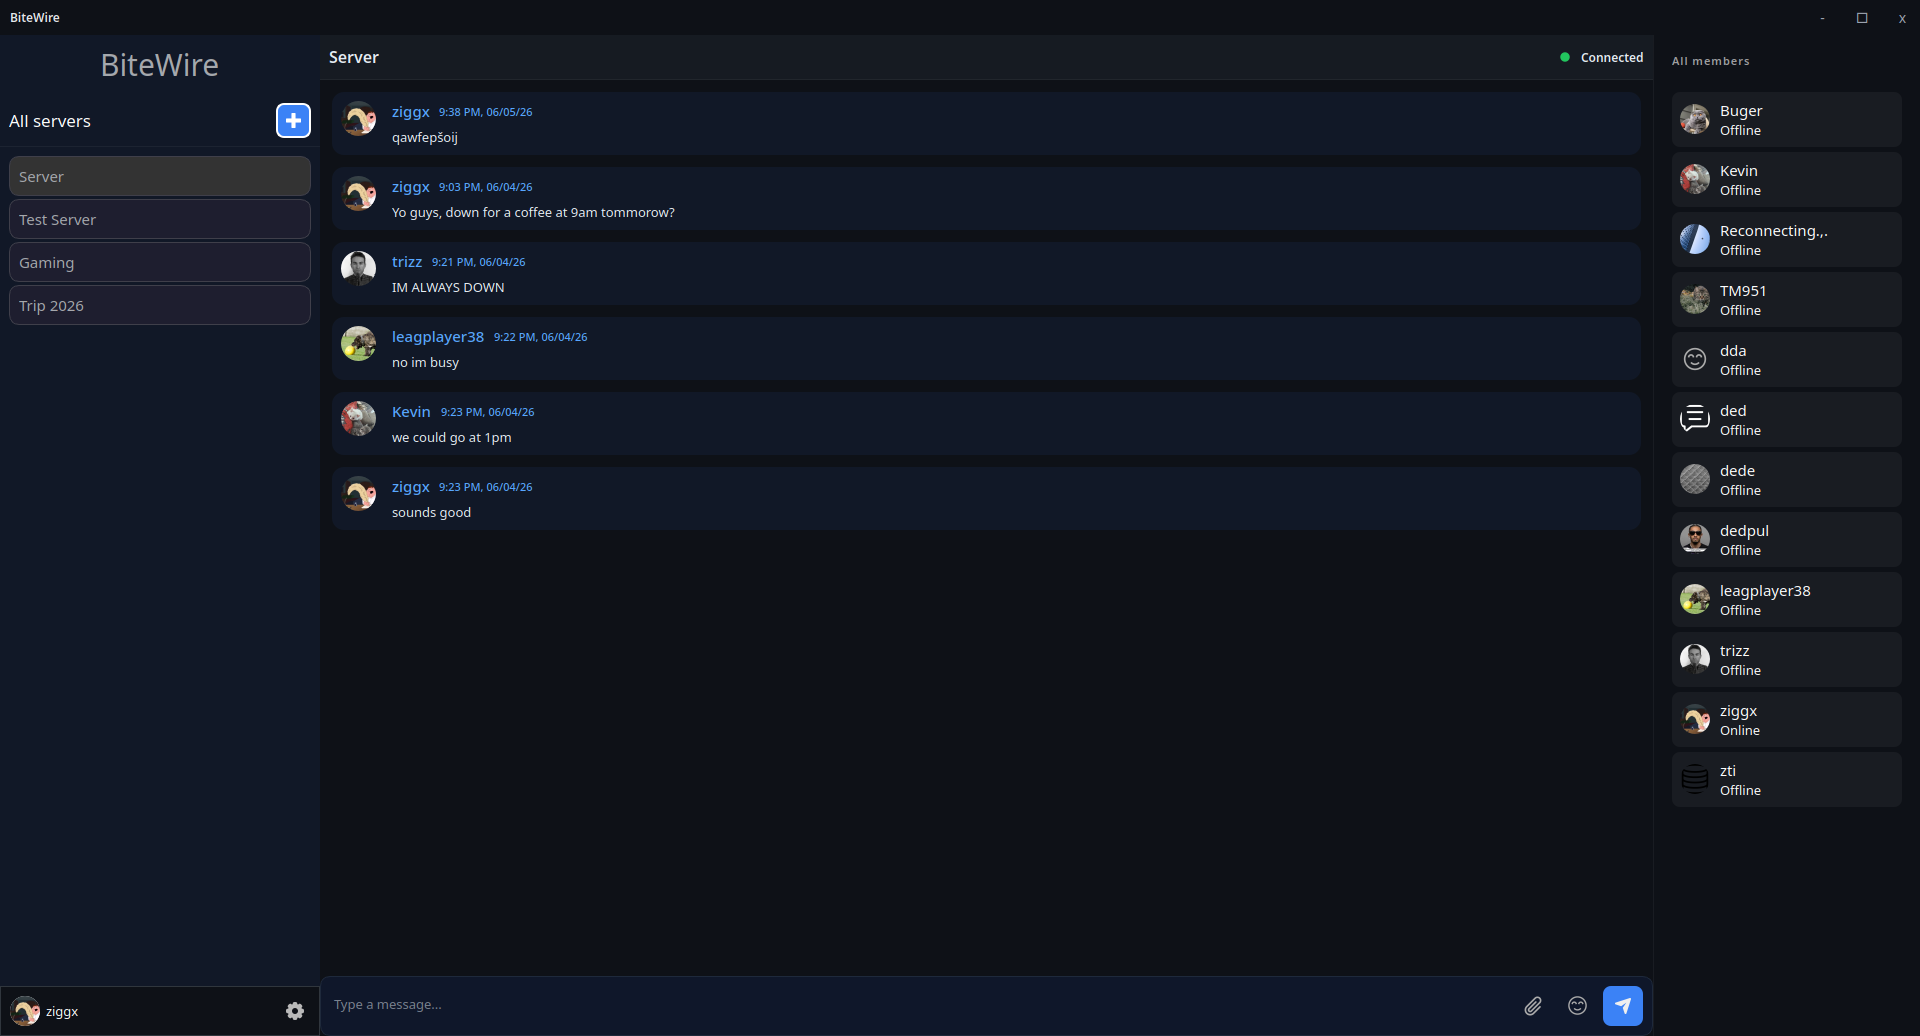
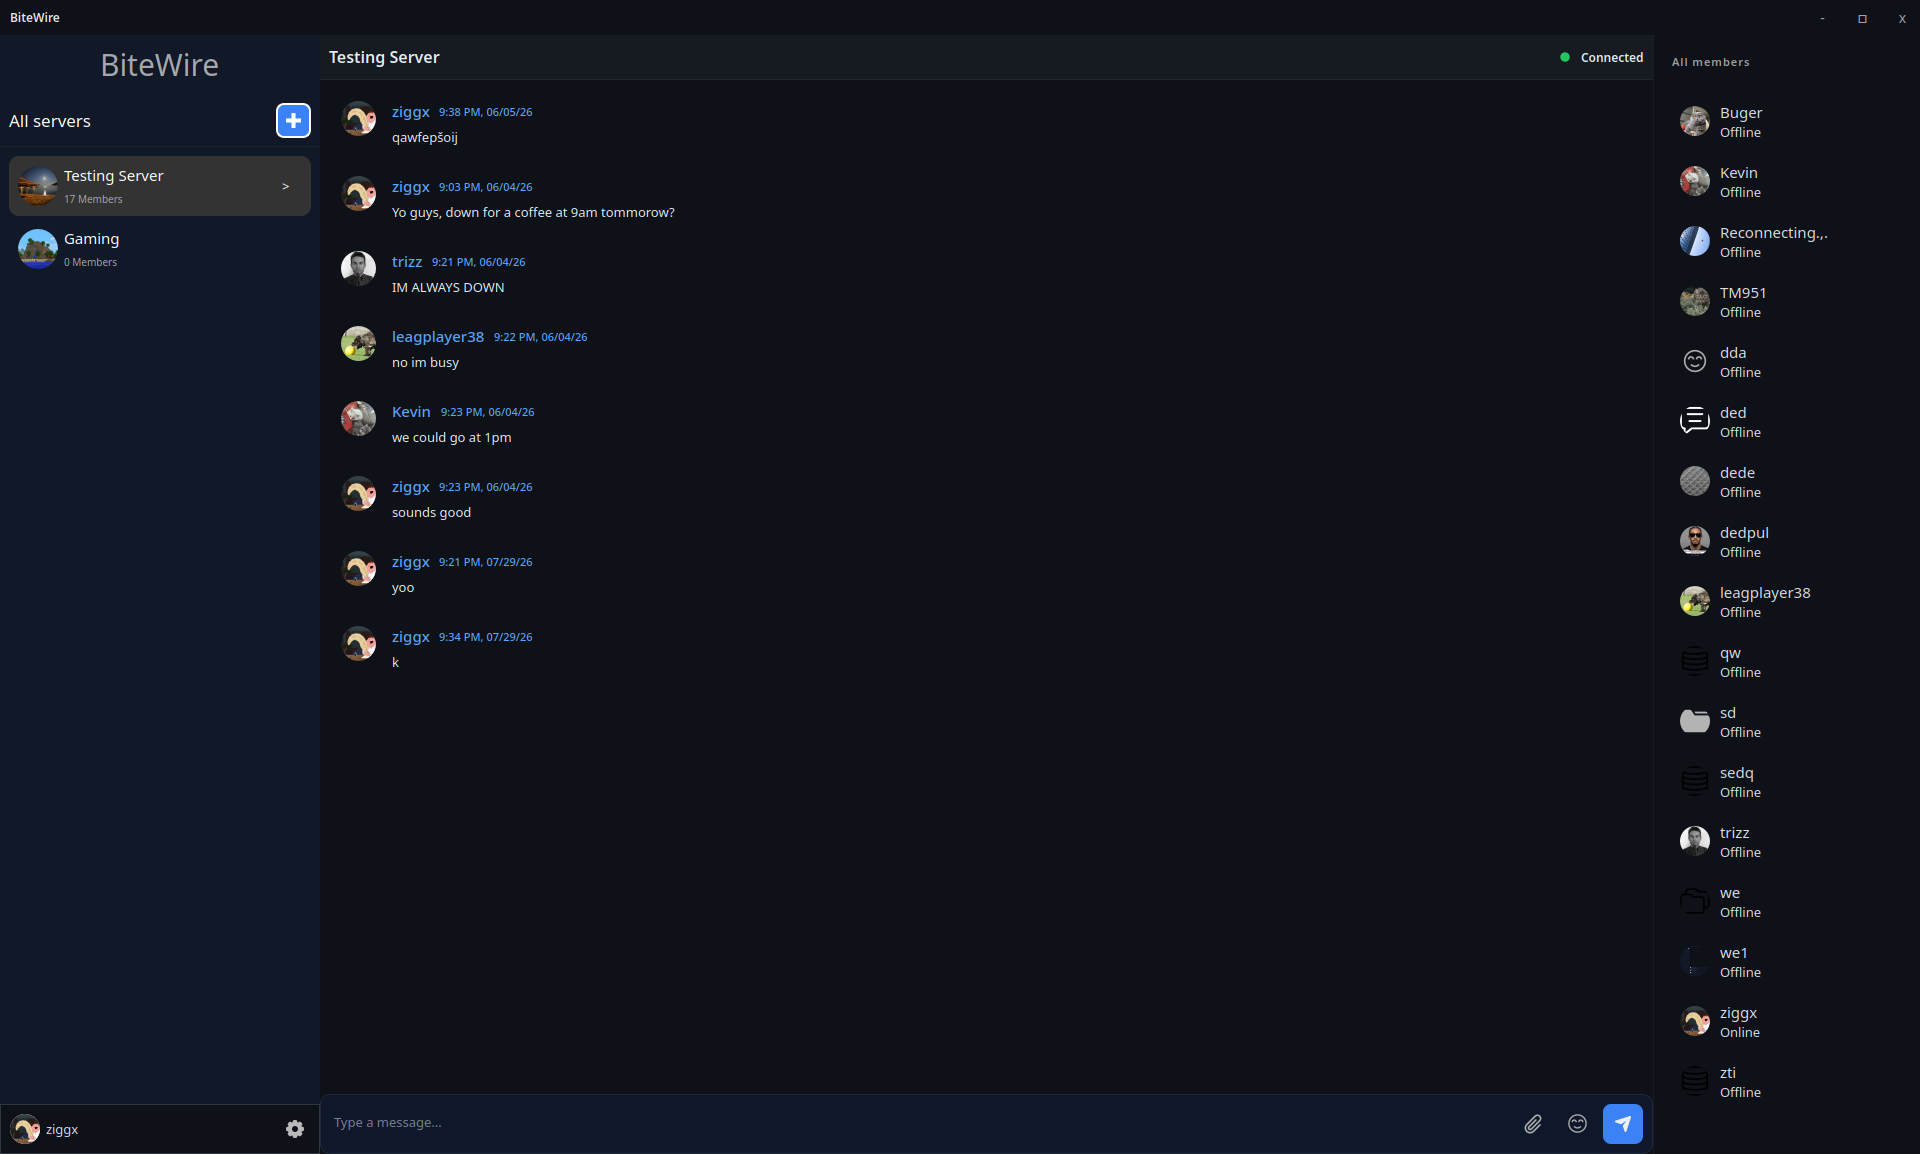
feat(docs): update webpage

diff --git a/docs/index.html b/docs/index.html
@@ -12,7 +12,7 @@
 
     <header class = "header">
         <h1>💬 BiteWire</h1>
-        <p class = "version">Latest version 2.1.0</p>
+        <p class = "version">Latest version 2.2.0</p>
         <div class = "header-right">
             <div class = "donate_container">
                 <a href = "https://ko-fi.com/ziggx5"><button class = "Kofi_donate_button"><img src = "images/kofi_logo.png" alt = "Kofi logo"></button></a>
@@ -28,7 +28,7 @@
     </header>
 
     <div class = "download_button_section">
-        <a href = "https://github.com/Ziggx5/BiteWire/releases/download/c2.1.0/BiteWire.exe"><button class ="download_button"><img src = "images/download.png" alt = "Download button">Download</button></a>
+        <a href = "https://github.com/Ziggx5/BiteWire/releases/download/c2.2.0/BiteWire.exe"><button class ="download_button"><img src = "images/download.png" alt = "Download button">Download</button></a>
         <a href = "https://github.com/Ziggx5/BiteWire"><button class = "github_button"><img src = "images/github_logo.png" alt = "github button">github repository</button></a>
     </div>
     <div class="container">
@@ -39,14 +39,14 @@
             <h2>⚙ Server Setup</h2>
             <h3>1. Generate TLS certificate</h3>
             <p>To host a BiteWire server, a TLS certificate is required for encrypted connections.</p>
-            <p>Example of a self signed certificate:</p>
+            <p>Example of a self-signed certificate:</p>
             <h1>Windows</h1>
             <p>Download and install <a href = https://git-scm.com/>Git</a>.</p>
             <p>Then open **Git Bash** and run:</p>
             <p>openssl req -x509 -newkey rsa:4096 -keyout server.key -out server.crt -sha256 -days 365 -nodes</p>
             <h1>Linux</h1>
             <p>Most Linux distributions already have <b>openssl</b> installed.</p>
-            <p>Open terminal and generate self signed certificate:</p>
+            <p>Open terminal and generate self-signed certificate:</p>
             <p>openssl req -x509 -newkey rsa:4096 -keyout server.key -out server.crt -sha256 -days 365 -nodes</p>
             <p>During setup you may be asked questions which can be skipped by pressing enter.</p>
             <p>After certificate generation two files will be created: <b>server.key</b> and <b>server.crt</b></p>
@@ -64,7 +64,7 @@
             <p>Bugs and missing features may be present.</p>
 
             <p>If you run into any bugs or issues, feel free to message me anytime!</p>
-            <p>App and webpage are under 3.0 GPL licence. More on <a href="https://www.gnu.org/licenses/gpl-3.0.html">gnu.org</a></p>
+            <p>App and webpage are under 3.0 GPL license. More on <a href="https://www.gnu.org/licenses/gpl-3.0.html">gnu.org</a></p>
         </div>
         <div class = "right_column">
             <div class = "setup">
@@ -75,10 +75,10 @@
                 <h2><img src="images/windows_logo.png" alt = "windows_logo"></a>Windows</h2>
                 <ul>
                     <li>
-                        <h4>BiteWire 2.1.0.exe<a href = "https://github.com/Ziggx5/BiteWire/releases/download/c2.1.0/BiteWire.exe"><button>Download</button></a></h4>
+                        <h4>BiteWire 2.2.0.exe<a href = "https://github.com/Ziggx5/BiteWire/releases/download/c2.2.0/BiteWire.exe"><button>Download</button></a></h4>
                     </li>
                     <li>
-                        <h4>BiteWire Server 2.0.0.exe<a href = "https://github.com/Ziggx5/BiteWire/releases/download/s2.0.0/BiteWire.Server.exe"><button>Download</button></a></h4>
+                        <h4>BiteWire Server 2.1.0.exe<a href = "https://github.com/Ziggx5/BiteWire/releases/download/s2.1.0/BiteWire.Server.exe"><button>Download</button></a></h4>
                     </li>
                 </ul>
             </div>
@@ -86,16 +86,16 @@
                 <h2><img src="images/linux_logo.png" alt = "linux_logo"></a>Linux</h2>
                 <ul>
                     <li>
-                        <h4>bitewire 2.1.0.rpm<a href = "https://github.com/Ziggx5/BiteWire/releases/download/c2.1.0/bitewire-2.1.0-1.x86_64.rpm"><button>Download</button></a></h4>
+                        <h4>BiteWire 2.2.0.rpm<a href = "https://github.com/Ziggx5/BiteWire/releases/download/c2.2.0/bitewire-2.2.0-1.x86_64.rpm"><button>Download</button></a></h4>
                     </li>
                     <li>
-                        <h4>BiteWire 2.1.0.deb<a href = "https://github.com/Ziggx5/BiteWire/releases/download/c2.1.0/bitewire_2.1.0_amd64.deb"><button>Download</button></a></h4>
+                        <h4>BiteWire 2.2.0.deb<a href = "https://github.com/Ziggx5/BiteWire/releases/download/c2.2.0/bitewire_2.2.0_amd64.deb"><button>Download</button></a></h4>
                     </li>
                     <li>
-                        <h4>BiteWire Server 2.0.0.rpm<a href = "https://github.com/Ziggx5/BiteWire/releases/download/s2.0.0/bitewire-server-2.0.0-1.x86_64.rpm"><button>Download</button></a></h4>
+                        <h4>BiteWire Server 2.1.0.rpm<a href = "https://github.com/Ziggx5/BiteWire/releases/download/s2.1.0/bitewire-server-2.1.0-1.x86_64.rpm"><button>Download</button></a></h4>
                     </li>
                     <li>
-                        <h4>BiteWire Server 2.0.0.deb<a href = "https://github.com/Ziggx5/BiteWire/releases/download/s2.0.0/bitewire-server_2.0.0_amd64.deb"><button>Download</button></a></h4>
+                        <h4>BiteWire Server 2.1.0.deb<a href = "https://github.com/Ziggx5/BiteWire/releases/download/s2.1.0/bitewire-server_2.1.0_amd64.deb"><button>Download</button></a></h4>
                     </li>
                 </ul>
             </div>
